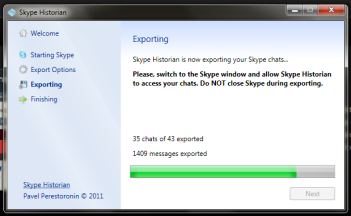
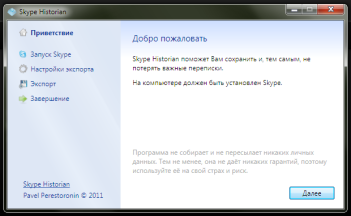
russification

diff --git a/ru/tutorial.html b/ru/tutorial.html
@@ -58,13 +58,13 @@ License: Creative Commons Attribution
     <div id="body">            
 		<div id="content">
             <div class="box">
-                <h2>Welcome Screen</h2>
+                <h2>Приветствие</h2>
                 
                 <img src="images/tutorial-1.png" alt="Welcome Screen"/>
                 
-                <p>Press "Next". <strong>You should have Skype installed.</strong></p>
+                <p>Нажмите "Далее". <strong>У вас должен быть установлен Skype.</strong></p>
                 
-                <h2>Choosing an Output</h2>
+                <h2>Выбор формата</h2>
                 
                 <img src="images/tutorial-2.png" alt="Choosing an Output"/>
                 
@@ -73,15 +73,15 @@ License: Creative Commons Attribution
                     You can then choose how should your messages be grouped. Grouping means that your messages will be grouped in subfolders for faster search then.
                     Finally, you can choose to compress all data into a single ZIP file to reduce used space.
                 </p>
-                <p>Press "Next" to continue.</p>
+                <p>Нажмите "Далее".</p>
                 
-                <h2>Choosing a destination folder</h2>
+                <h2>Выбор конечной папки</h2>
                 
                 <img src="images/tutorial-3.png" alt="Choosing a destination folder"/>
                 
-                <p>Choose a folder you want to save your chats to and press "Next". <strong>Skype must be logged in.</strong></p>
+                <p>Choose a folder you want to save your chats to and press "Next". <strong>Вход в Skype должен быть выполнен.</strong></p>
                 
-                <h2>Awaiting for the Skype</h2>
+                <h2>Ожидание</h2>
                 
                 <img src="images/tutorial-4.png" alt="Awaiting for the Skype"/>
                 
@@ -89,15 +89,15 @@ License: Creative Commons Attribution
                     At that step Skype Historian connects to the Skype. <strong>You may need to switch to the Skype window and press the "Allow access" button on the top of the window.</strong>
                 </p>
                 
-                <h2>Exporting</h2>
+                <h2>Экспорт</h2>
                 
                 <img src="images/tutorial-5.png" alt="Exporting"/>
                 
                 <p>
-                    Skype Historian is exporting your chats. Be patient. <strong>:)</strong>
+                    Skype Historian экспортирует ваши переписки. <strong>:)</strong>
                 </p>
                 
-                <h2>Finished</h2>
+                <h2>Завершение</h2>
                 
                 <img src="images/tutorial-6.png" alt="Finished"/>
                 
